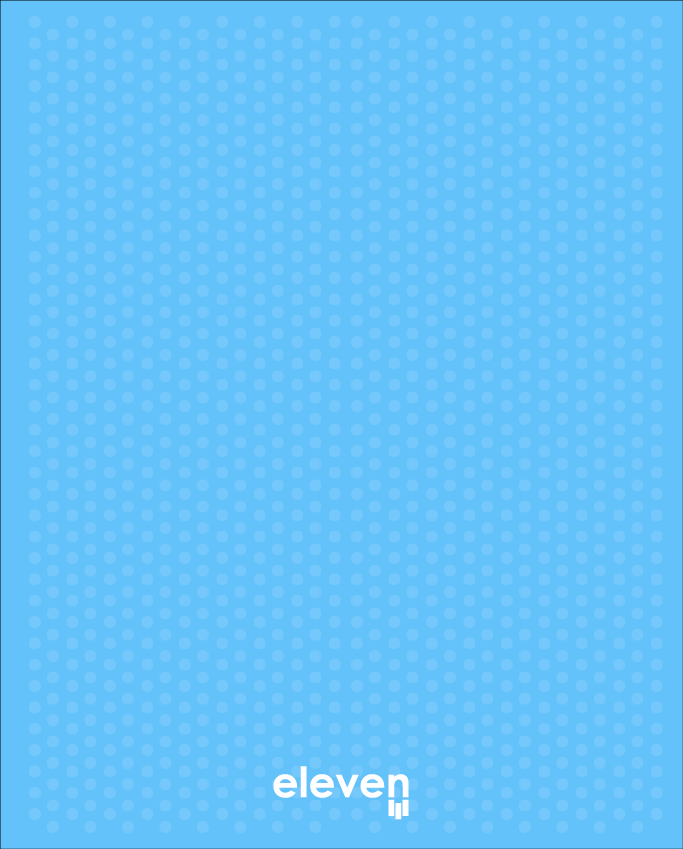
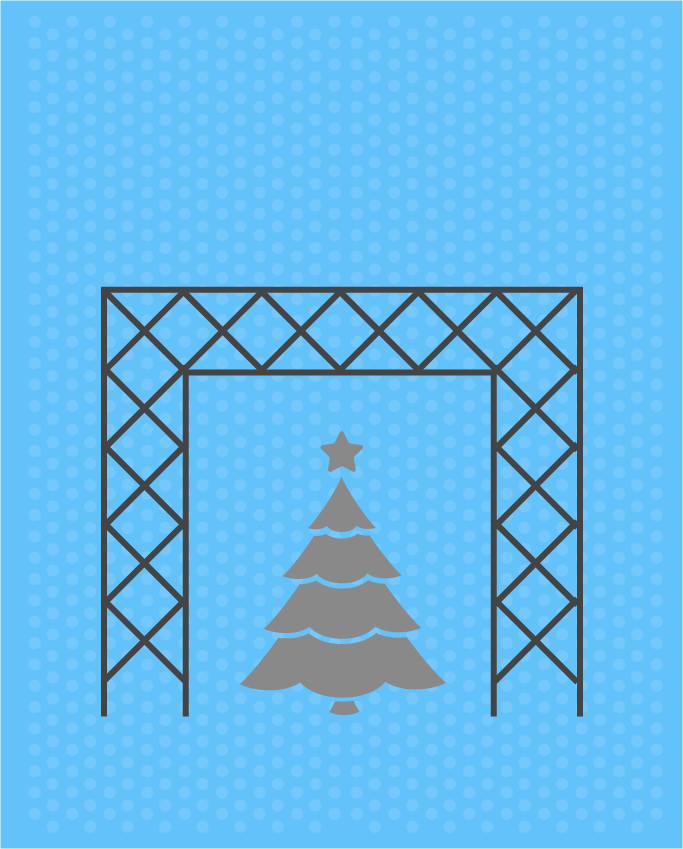
change fondo and distance between layers

diff --git a/index.html b/index.html
@@ -19,11 +19,11 @@
       </a-assets>
 
       <a-image width="1" height="1" src="#transpImageFondo" position='0 0 0' rotation="-90 0 0" ></a-image>
-      <a-image width="1" height="1" src="#transpImageCapa1" position='0 0.1 0' rotation="-90 0 0" ></a-image>
-      <a-entity geometry="primitive:plane" position="0 0.2 0" rotation="-90 0 0" material="shader:gif;src:#transpImageCapa2;alphaTest:0.5;">></a-entity>
-      <a-image width="1" height="1" src="#transpImageCapa3" position='0 0.3 0' rotation="-90 0 0" ></a-image>
-      <a-entity geometry="primitive:plane" position="0 0.4 0" rotation="-90 0 0" material="shader:gif;src:#transpImageCapa4;alphaTest:0.5;">></a-entity>
-      <a-image width="1" height="1" src="#transpImageCapa5" position='0 0.5 0' rotation="-90 0 0" ></a-image>
+      <a-image width="1" height="1" src="#transpImageCapa1" position='0 0.15 0' rotation="-90 0 0" ></a-image>
+      <a-entity geometry="primitive:plane" position="0 0.3 0" rotation="-90 0 0" material="shader:gif;src:#transpImageCapa2;alphaTest:0.5;">></a-entity>
+      <a-image width="1" height="1" src="#transpImageCapa3" position='0 0.45 0' rotation="-90 0 0" ></a-image>
+      <a-entity geometry="primitive:plane" position="0 0.6 0" rotation="-90 0 0" material="shader:gif;src:#transpImageCapa4;alphaTest:0.5;">></a-entity>
+      <a-image width="1" height="1" src="#transpImageCapa5" position='0 0.75 0' rotation="-90 0 0" ></a-image>
 
       <a-marker-camera preset='custom' type='pattern' url='pattern_Origami.patt'></a-marker-camera>
       
